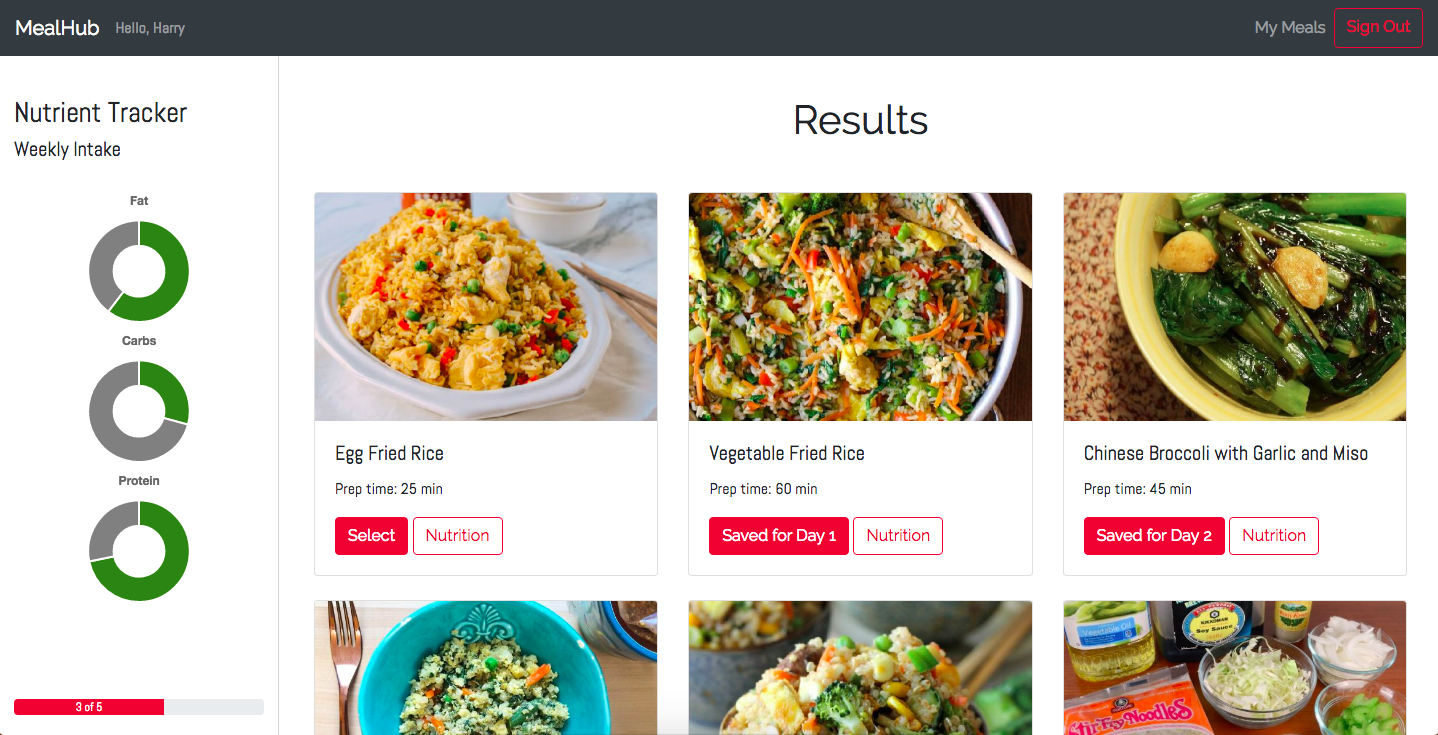
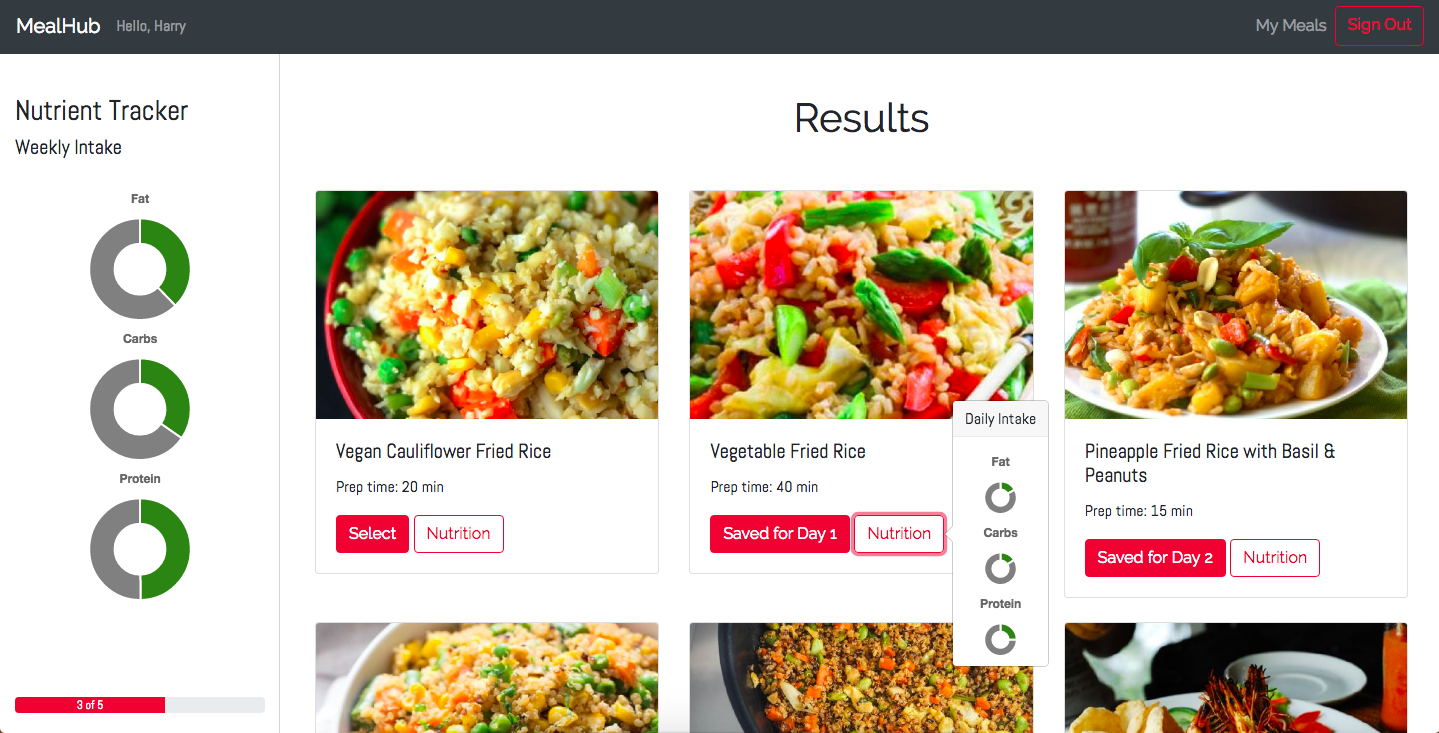
added screenshots to readme

diff --git a/README.md b/README.md
@@ -3,11 +3,23 @@
 MealHub is a web app designed to help with vegetarian meal planning. Users search for recipes based on food preferences. A nutrient tracker allows users to plan meals according to recommended daily allowances of major macronutrients.  Integration with Google Calendar allows users to send recipes to their personal calendar.
 
 ### Features
-  - Create an account or sign in to create and access meal plans
-  - Search for recipes based on cuisine preferences, foods to avoid, and dietary restrictions
-  - Select recipes for a meal plan based on prep time and recommended daily allowances of major macronutrients
-  - View weekly totals of macronutrients based on selected recipes
-  - Add recipes to Google calendar for easy access
+![MealHub Homepage](https://github.com/njgupta23/MealHub/blob/master/static/MealHub%20Homepage.png)
+
+Create an account or sign in to create and access meal plans.
+
+![MealHub Create Account](https://github.com/njgupta23/MealHub/blob/master/static/MealHub%20Create%20Account.png)
+
+Search for recipes based on cuisine preferences, foods to avoid, and dietary restrictions.
+
+![MealHub New Plan](https://github.com/njgupta23/MealHub/blob/master/static/MealHub%20New%20Plan.png)
+
+Select recipes for a meal plan based on prep time and recommended daily allowances of major macronutrients. View weekly totals of macronutrients based on selected recipes.
+
+![MealHub Results](https://github.com/njgupta23/MealHub/blob/master/static/MealHub%20Results.png)
+
+Save meal plans and add recipes to Google calendar for easy access.
+
+![MealHub My Meals](https://github.com/njgupta23/MealHub/blob/master/static/MealHub%20My%20Meals.png)
 
 
 ### Tech
